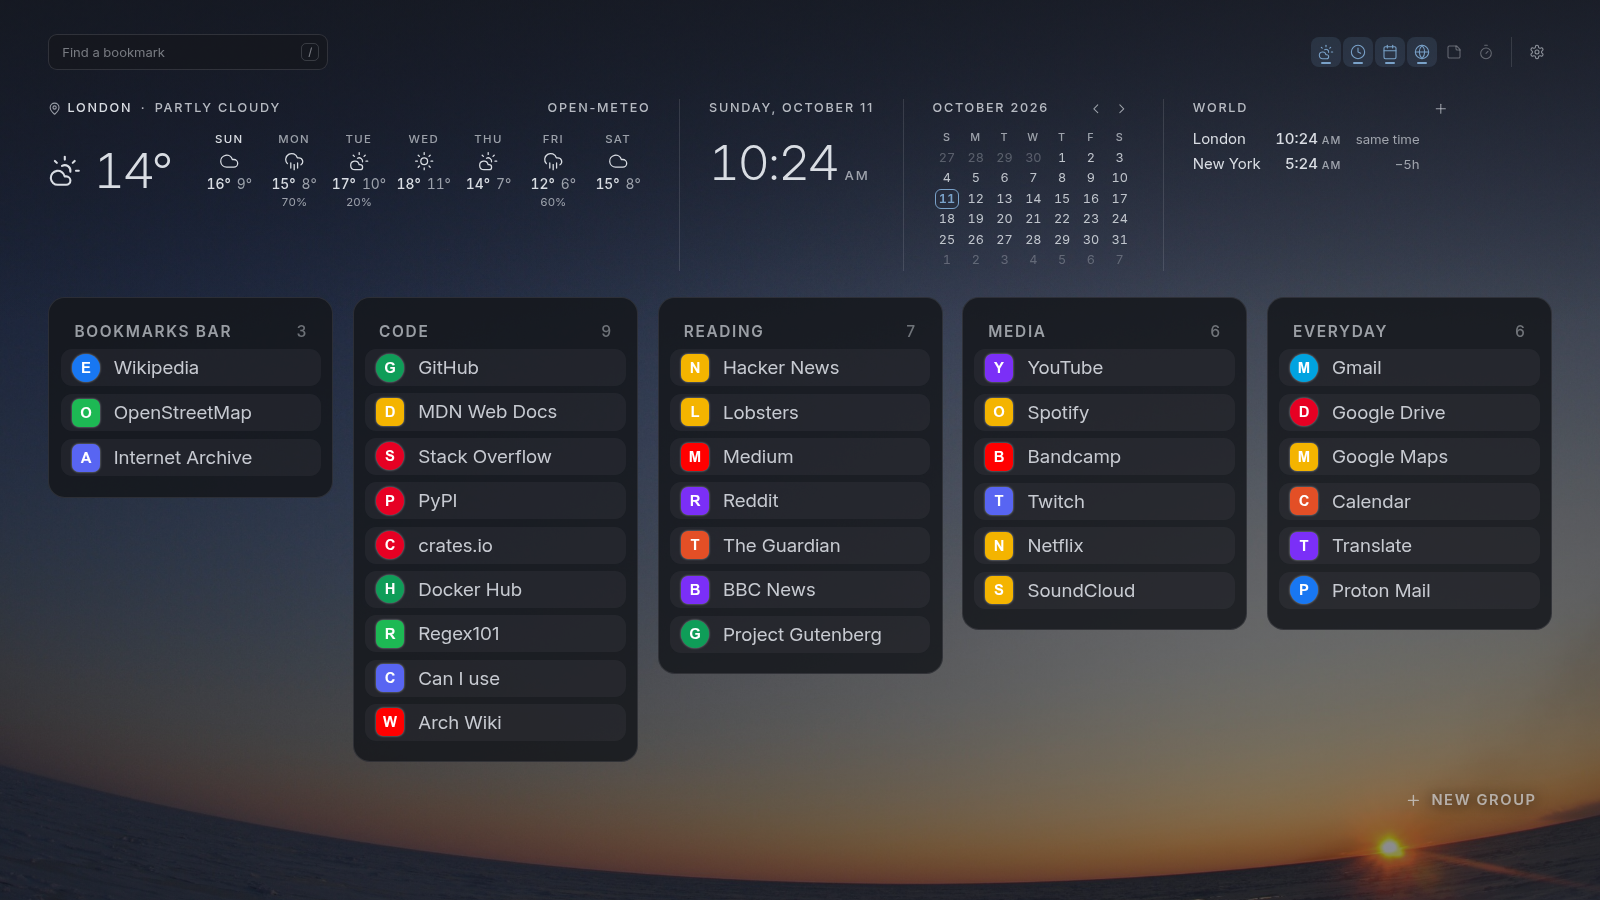
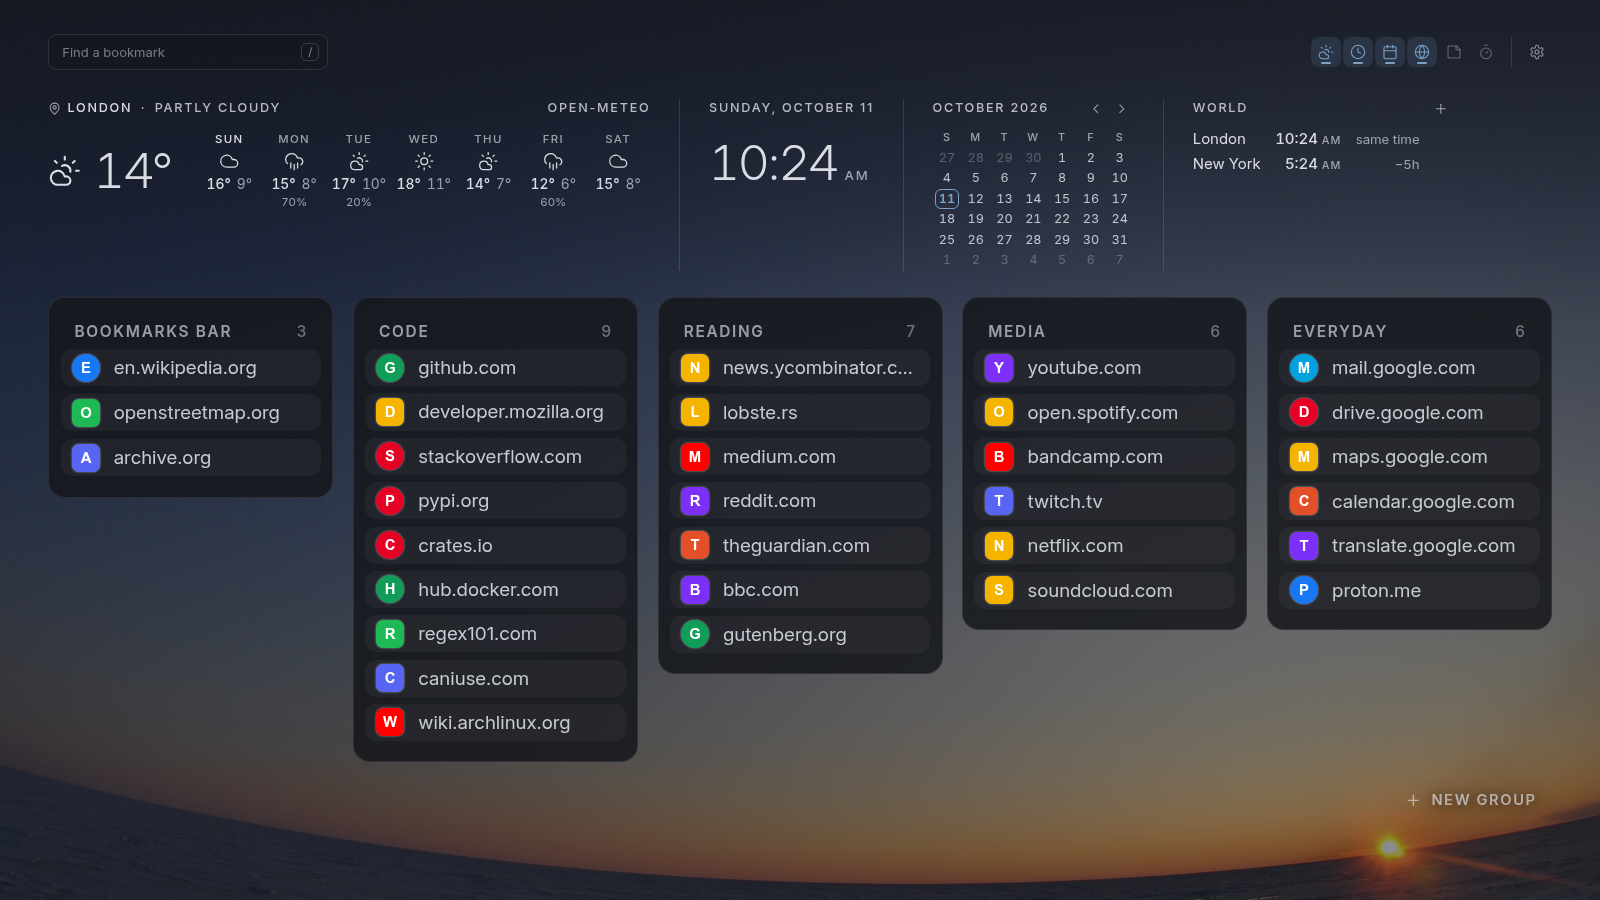
Release 1.2.0
Screenshots show the site address on tiles, the new default.

diff --git a/README.md b/README.md
@@ -83,7 +83,7 @@ Download the zip for your browser from the [latest release](https://github.com/s
 
 **Chrome, Brave, Edge** (Vivaldi should work but is untested)
 
-1. Unzip the Chromium package into a new, empty folder with a fixed name that you keep. The zip has no top-level folder, so name the target: `unzip mutemark-chromium-1.1.0.zip -d mutemark`.
+1. Unzip the Chromium package into a new, empty folder with a fixed name that you keep. The zip has no top-level folder, so name the target: `unzip mutemark-chromium-1.2.0.zip -d mutemark`.
 2. Open the browser's extensions page and turn on Developer mode.
 3. Choose Load unpacked and select that folder, the one with `manifest.json` directly inside.
 

diff --git a/.github/ISSUE_TEMPLATE/bug_report.md b/.github/ISSUE_TEMPLATE/bug_report.md
@@ -13,7 +13,7 @@ labels: bug
 2.
 
 **Versions**
-- Mutemark: (the version in the extensions page, for example 1.1.0)
+- Mutemark: (the version in the extensions page, for example 1.2.0)
 - Build: (Chromium or Firefox package)
 - Browser and its version:
 - Operating system:
